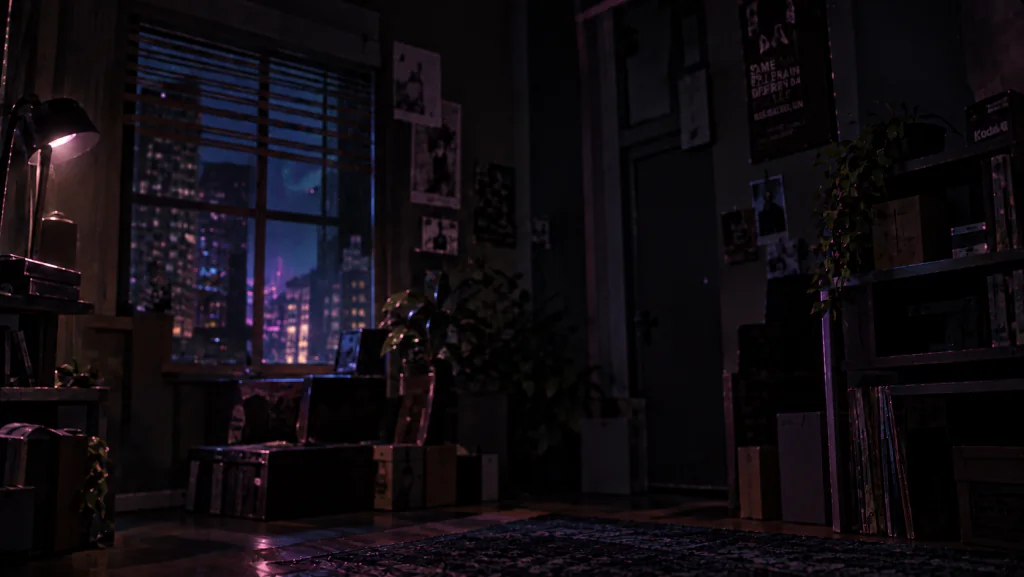
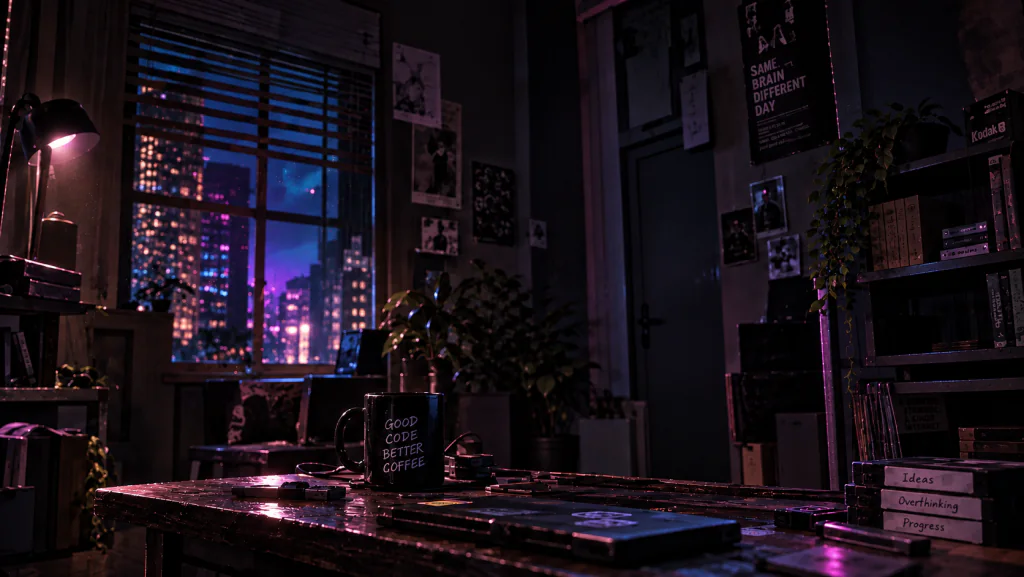
Swap in the desk room plate and turn the CSS desk off
The new plate has a real desk in it — mug, keyboard, tape stack, lamp — so the
CSS desk is now off by default (?desk=1 revives it, in case the plate changes
again). The set is reframed to stand on that desk, right of the mug and left of
the tapes, which is the same arrangement as the reference frame.

Plate is 233 kB webp at the source's own 1672x941 (67 kB at 1024 for narrow
viewports); it costs more than the last one because this render carries far
more detail. The source PNG lives in assets-src/ rather than public/, since
everything under public/ is copied into the build verbatim and would have
shipped 1.8 MB of unused PNG to every visitor.

diff --git a/src/intro/intro.ts b/src/intro/intro.ts
@@ -63,7 +63,9 @@ export function startIntro (opts: { onEnter: (target: string) => void }) {
   // Dev-only framing panel. Dynamically imported so it never reaches the
   // production bundle unless someone actually asks for ?tune=1.
   const params = new URLSearchParams(window.location.search)
-  if (params.get('desk') === '0') root.classList.add('no-desk')
+  // The room plate has a real desk in it now, so the CSS one stays off unless
+  // explicitly asked for (?desk=1) — kept around in case the plate changes.
+  if (params.get('desk') !== '1') root.classList.add('no-desk')
   if (params.get('tune') === '1') {
     import('./tune').then((m) =>
       m.mountTuner({

diff --git a/src/intro/intro.css b/src/intro/intro.css
@@ -29,11 +29,12 @@
   min-height: 100%;
   background: url('/room/room.webp') center / 100% 100% no-repeat;
 
-  /* where the tube sits on the plate */
-  --crt-left: 46.5%;
-  --crt-top: 40%;
-  --crt-w: 35%;
-  --crt-h: 50%;
+  /* Where the tube sits on the plate: standing on the desk, right of the mug
+     and left of the tape stack — the same relationship as the reference. */
+  --crt-left: 45%;
+  --crt-top: 22.5%;
+  --crt-w: 36%;
+  --crt-h: 62%;
   /* the desk the set stands on */
   --desk-top: 72%;
   --desk-h: 34%;
